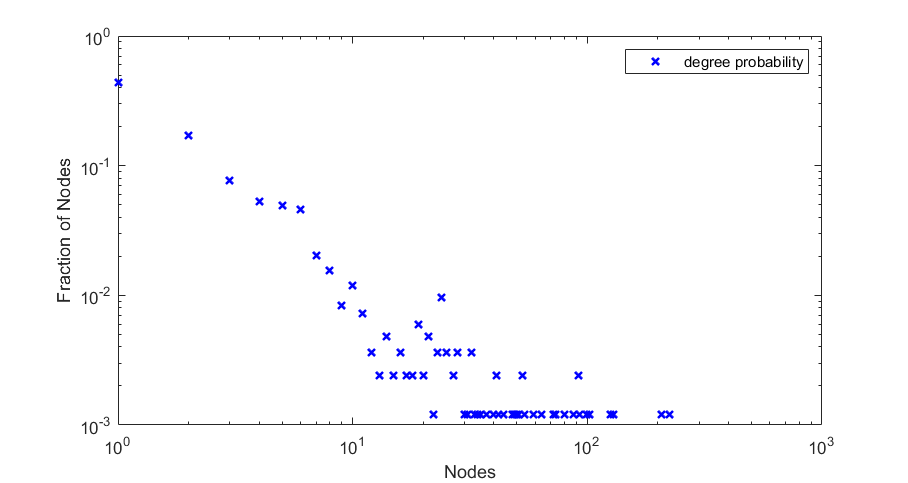
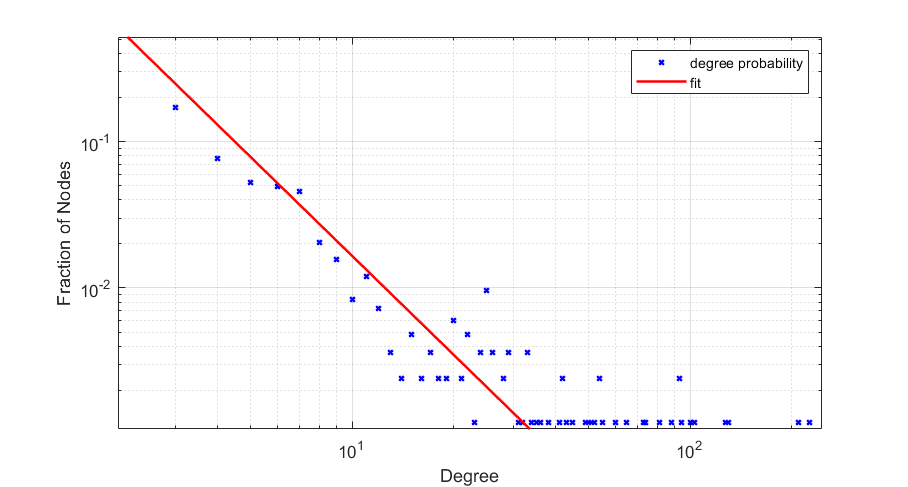
Wrote conclusion chapter, 2 page.
Next: re-read and correction of the thesis. Also need to talk about
BA-model in autopilot.

diff --git a/results/results.tex b/results/results.tex
@@ -415,7 +415,7 @@
 
 	\section{Lightning Network as a Scale-free network}
 	
-	Many features that has been showed so far suggests that the Lightning Network is a complex network: the hierarchical fault tolerance showed in the k-vertex connectivity analysis, a high centrality of some high degree nodes making them hubs, the low diameter of the network compared to its number of nodes and edges are common features in scale free networks. Such networks are random graphs whose degree distribution follows a power law such that 
+	Many features that has been showed so far suggests that the Lightning Network is a complex network: the hierarchical fault tolerance showed in the k-vertex connectivity analysis, a high centrality of some high degree nodes making them hubs, the low diameter of the network compared to its number of nodes and edges are common features in scale-free networks. Such networks are random graphs whose degree distribution follows a power law such that 
 	$$P(k) \sim k^{-\gamma}$$
 	where $\gamma$ is a parameter whose value is usually $2 < \gamma < 3$. For this reason the degree distribution has been evaluated for all the snapshot of the period of observation. Given a graph $G = (V,E)$, $P(k)$ is defined as the probability for a node in V drawn at random of having exactly $k$ edges. Mathematically, it can be expressed as:
 	$$P(k) = \frac{|\{ v_i \in V : \deg v_i = k \}}{|V|}$$
@@ -438,8 +438,9 @@
 		\caption{Degree distributions from snapshot 28 in log-log scale and standard scale}
 	\end{figure}
 	
+	Figure \ref{graph_28_scatter} and \ref{graph_28_degree} shows the degree distribution for a single capture of the graph, in  a log-log and normal scale respectively. Unfortunately since the adoption of the network is still low and because the network has been studied on the testnet environment due to size constraints, the amount of data results to be scarce and many outliers occur. For this reason it has been chosen to use the Bisquare weights regression where weight is given to each data point based on how far the point sits from the fitted curve, thus minimizing the effect of outliers points.
 	
-	Using the curve fit tool from Matlab, it has been possible to evaluate the gamma value of the fitting curve for each snapshot such that $\Gamma = \{\gamma_1, \gamma_2, ... , \gamma_d\}$ where $d$ is the number of snapshots, using Bisquare as robust regression and the Trust-Region algorithm; Figure \ref{graph_28_degree} shows the result over one of the graph of the observation period. Then mean, variance and standard deviation has been evaluated over $\Gamma$.
+	Using the curve fit tool from Matlab, it has been possible to evaluate the gamma value of the fitting curve for each snapshot such that $\Gamma = \{\gamma_1, \gamma_2, ... , \gamma_d\}$ where $d$ is the number of snapshots, using Bisquare as robust regression and the Trust-Region algorithm, then mean, variance and standard deviation has been evaluated over $\Gamma$.
 	
 	\begin{center}
 		\begin{tabulary}{0.75\linewidth}{| L | C | C | C | }
@@ -449,8 +450,10 @@
 		\end{tabulary}
 	\end{center}
 	
-	A random network following the power law degree distribution has been generated yielding very promising results. From the $\gamma$ value, a new graph has been created with a number of nodes in the order of the sizes seen until now, specifically 886 nodes which is the maximum number of nodes observed so far, using the NetworkX function \textit{powerlaw\_sequence} that generates a sample sequence of desired length from a power law distribution with custom exponent. The generated graph comes without self-loops, but also with nodes without edges and smaller components. After removing these nodes, 745 nodes and 2081 edges are left. One of the peculiarity of scale-free networks is that the clustering coefficient is usually low: the result show indeed a clustering coefficient that follows the same trend of the real network.
 	
+	From the $\gamma$ value, a new graph has been created with a number of nodes in the order of the sizes seen until now, specifically 886 nodes which is the maximum number of nodes observed so far: firstly, a degree sequence that follows a power-law distribution with a given exponent has been calculated, then the graph was generated through an algorithm modeled around preferential attachment property of scale-free networks by F. Chung and L. Lu, \cite{Chung2002}, which performed best with respect to the \textit{configuration model} from M. Newman \cite{Newman2003} where graphs with self-loops and parallel edges are a possible outcome of the generation process; manually removing these would cause an important structural bias. The newly created graph however has more than one connected component and for this reason it was necessary to select the largest one. After removing these, the graph accounted for 745 nodes and 2081 edges. 
+	
+	One of the peculiarity of scale-free networks is that the clustering coefficient is usually low: the result show indeed a clustering coefficient that follows the same trend of the real network.
 	\begin{center}
 		\begin{tabulary}{0.75\linewidth}{| C | C |}
 			\hline
@@ -480,9 +483,5 @@
 	\end{center} 
 	
 	Results show a decreased average clustering coefficient, as the scale-free networks are supposed to perform, and overall the other parameters are in line with the values observed in the real network. It must be reminded however that data are based over the Testnet environment: unfortunately, generating an equivalent network for the Main-Net has been showed to be not accurate, as the average degree of the Main-Net appears to be higher than the one presented here, therefore the $\gamma$ value discovered so far is only representative of the testing network. However, the methodologies here presented are compatible with the real network environment so it should not be hard to see if they applies for a real world scenario.
-	
-	\subsection{Lightning Network as a Time Varying Graph}
-	
-	The generation process of an equivalent of the Lightning Network presented above lacks of the intrinsic nature of the edges, which are temporary 
-	
+
 \end{document}

diff --git a/conclusion/conclusion.tex b/conclusion/conclusion.tex
@@ -1,7 +1,18 @@
 \begin{document}
 	\chapter{Conclusions}
-	A presentation of the data obtained from your research and its implpication.
-	\section{Summary}
+	
+	In this work we presented an analysis of various aspects of a newborn Bitcoin micro-payment system known as Lightning Network. We collected data from the testnet environment for a month and showed the trends in terms of size of the network, number of edges, average degree and diameter on a daily basis and on a monthly basis, evidencing a small variation over a 24h period with respect to a 31 days period. We focused on the centrality aspect of some nodes that showed a high betweenness centrality score throughout the daily and the monthly observation period, evidencing the implications on having such a high centrality degree on this particular network. Then an inherent hierarchical structure of the network has been showed through the analysis of the k-vertex components iterated over the maximal subgraph found for each step, and the process was repeated for each snapshot of the network putting in evidence the size of each vertex component. Then we investigated the features of the nodes belonging to the most connected component by computing the intersection with a list of nodes sorted by their betweenness centrality score, discovering that each highest k-connected component is mostly composed by central nodes, suggesting that there is a strong backbone that either would help in future to form a hierarchical structure similar to the one observed in ISPs infrastructures, or will cause the network.
+	
+	Based on the information gathered so far, we wanted to find out which was the best random graph model able to capture the essential structure of the network. We first observed that the network degree distribution was governed by a power-law, then we guessed the $\gamma$ value, that is the exponent of such power-law, via curve fitting over many instances of the network, computing the mean value among these fits. We finally discovered, by comparing the real information with the one gathered on the newly created model, that the random graph that was best suited to represent the Lightning Network was the Chung-Lu model, which is a model for scale-free network.
+	
 	\section{Future works and directions}
-	\section{Acknowledgements}
+	
+	Bitcoin is a fairly new technology and the literature is still scarce; this determined an initial difficult approach to the topic since most of the documentation has to be found in old forums or in developers mailing-list. In addition, the Lightning Network was publicly released on November 2017 on the testnet environment and for this reason the scientific literature by the time was literally non-existent except for a proposal of a Lightning Network routing scheme known as Flare \cite{Prihodko2016}. For this reason, a survey over this technology would indeed help other researchers to get to know to the main features of this scalability solution and better orientate between the main issues.
+	
+	When we started working on this protocol there were no tools that offered network stats, thus part of this work is dedicated to trends analysis. As the network kept growing, more and more tools were developed for the user base, as well as network trackers which displayed some basic characteristic of the network, but they all lack of important network characterization metrics: thus, one direction could be further develop and ease the visualization of the metrics, like the one presented on this work, to give users more information about the network they are investing in. Furthermore, the data presented until now only applies to the testnet environment due to hardware limit, so it would be interesting to see some of the analysis presented above repeated on the main network data, in particular those about the generation of an equivalent model.
+	
+	The network route discovery protocol relies by now on the fact that each node in the graph knows the topology of the network; as the network grows it would be rather impractical for nodes to store all the information of an ever-evolving graph, thus a discussion over a Lightning Network hierarchical infrastructure has to be made, and the considerations about the k-vertex components we made so far could be used as a starting ground for future works. On the other hand, having so many central nodes belonging to the same connected component may led to the formation of payment cartels were some users would be served with much more priority by central nodes with respect to others, thus decreasing the overall fairness when it comes to transaction processing.
+	
+	Lastly, the Lightning Network so far has seen a low adoption by the users because setting up a new node is a task that requires a strong technical background, thus the network is still small in size with respect to the scalability goals that it has anticipated. With an equivalent model in mind, it would be useful to test the Lightning Network against a wider scenario, where millions of nodes are capable to process transactions and/or to fail them.
+	
 \end{document}

diff --git a/main.tex b/main.tex
@@ -50,7 +50,6 @@
 	\subfile{dynamic_networks/dynamic_networks}
 	\subfile{material_methods/material_methods}
 	\subfile{results/results}
-	\subfile{discussion/discussion}
 	\subfile{conclusion/conclusion}
 	\bibliographystyle{plain}
 	\bibliography{bibliography.bib}
